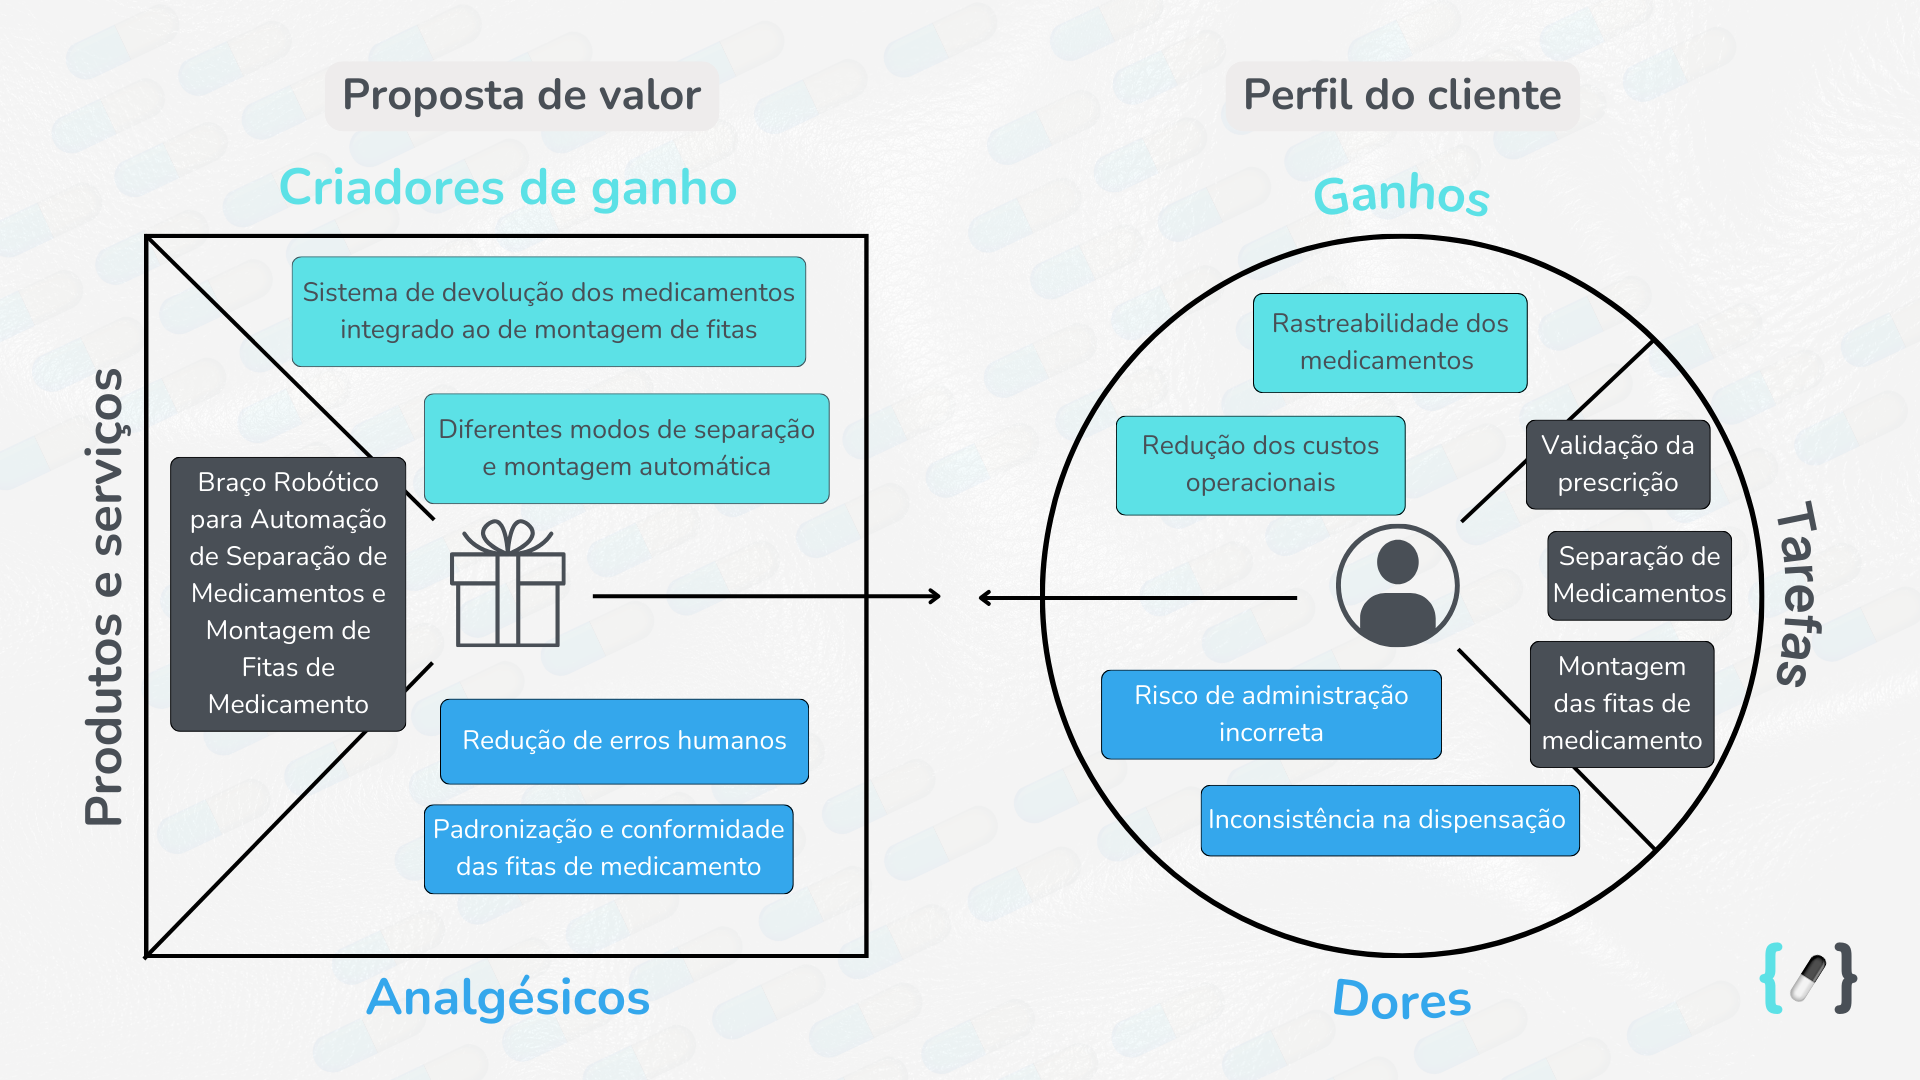
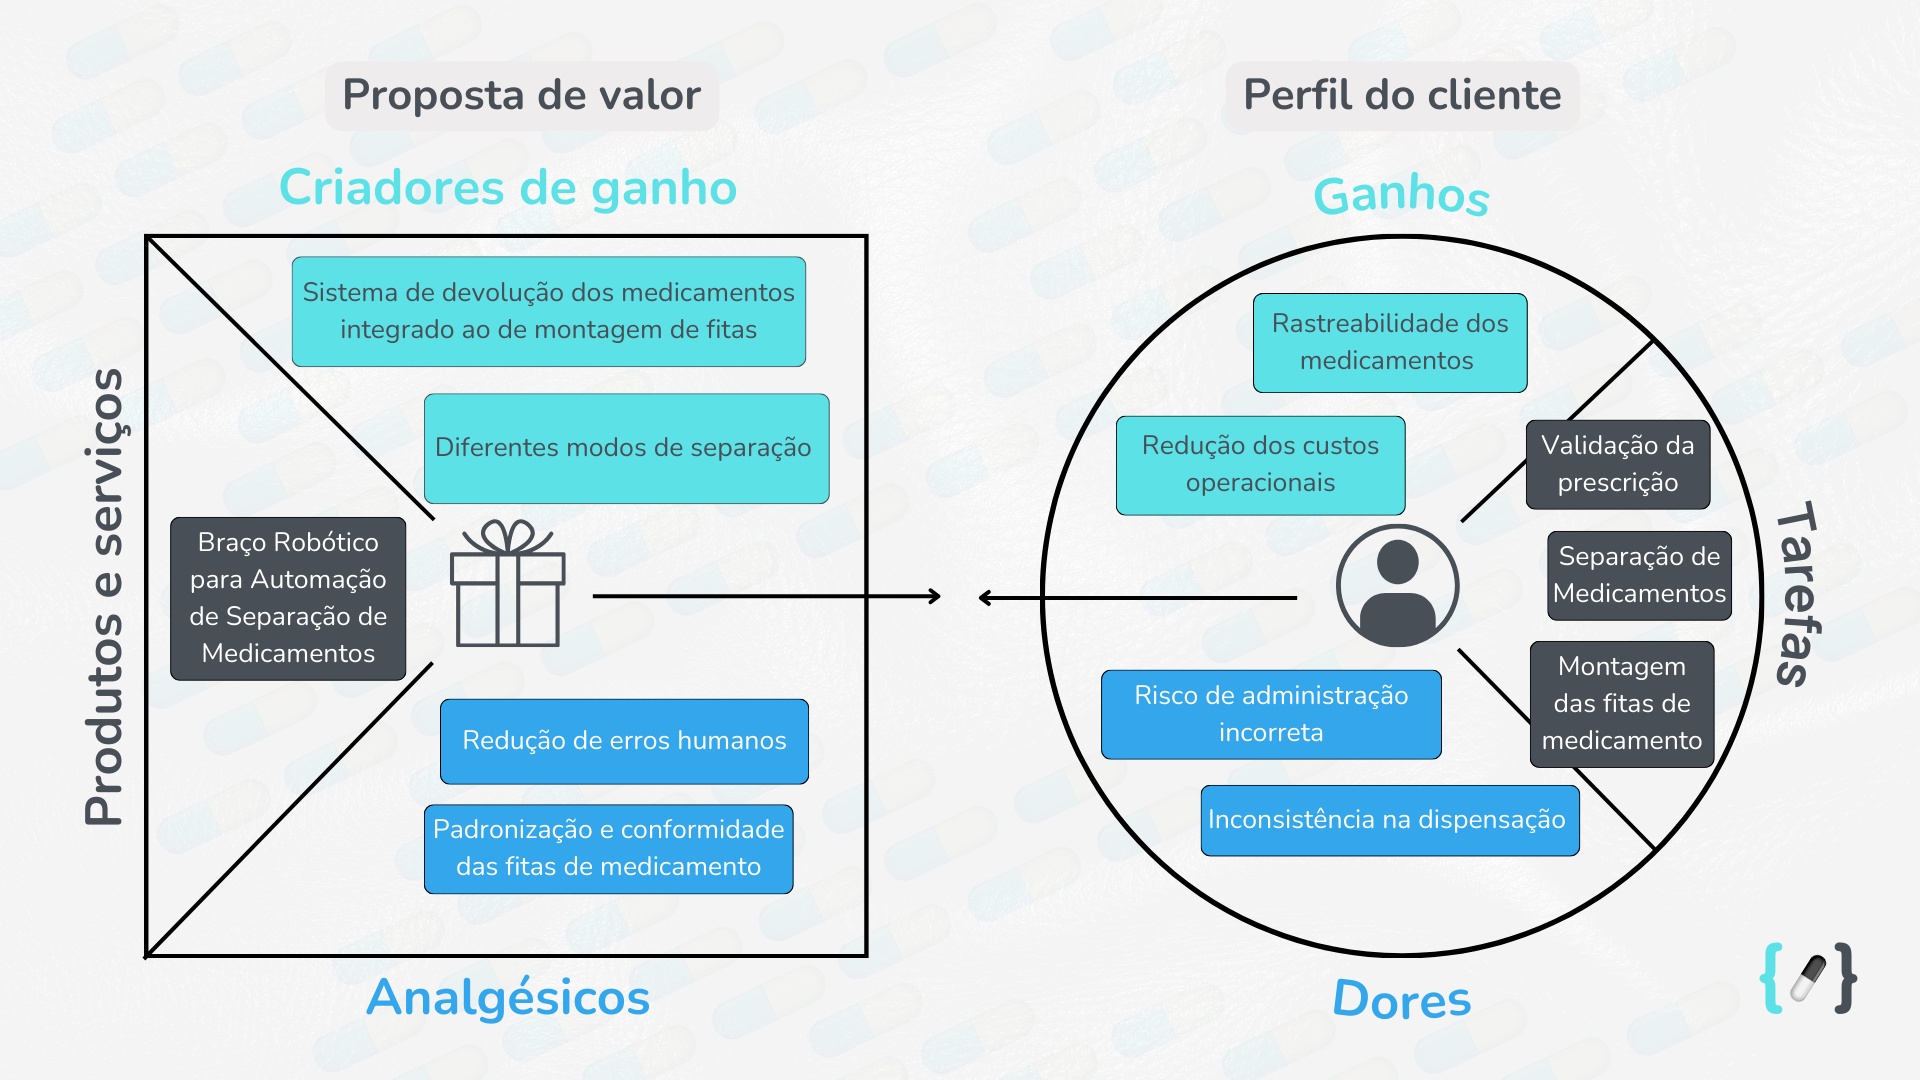
docs: retira montagem como um dos atributos da solução

Changed region(s): [[0.0625, 0.3972, 0.4375, 0.7028]]

diff --git a/docs/docs/canvas_proposta_valor.md b/docs/docs/canvas_proposta_valor.md
@@ -17,7 +17,6 @@ sidebar_position: 3
 :::
 
 &emsp; A principal função do Canvas Proposta de Valor é garantir que a empresa esteja criando produtos e serviços que realmente atendam às necessidades de seus clientes, evitando o desenvolvimento de soluções que não geram valor para o mercado.
-<br/>
 
 ## 🎯 Proposta de Valor
 
@@ -25,17 +24,17 @@ sidebar_position: 3
 
 <div align='center'>
 <sub>Figura 1 - Canvas Proposta de Valor</sub>
-</div><br/>
+</div>
 
-<img src="/img/canvas_proposta_valor.png"/><br/>
+<img src="/img/canvas_proposta_valor.png"/>
 
 <div align ='center'>
 <sup>Fonte: Material produzido pelos autores (2025)</sup>
-</div><br/>
+</div>
 
-&emsp;Este Canvas Proposta de Valor serve como um guia para o **_Prescript_**, garantindo que ele esteja sempre alinhado com as necessidades dos profissionais de saúde, tanto os **farmacêuticos** quanto as **enfermeiras**. Ele destaca de maneira objetiva e direta as funcionalidades essenciais do sistema, como a **automação inteligente da prescrição de medicamentos**, a **rastreabilidade dos medicamentos** e a **redução dos custos operacionais**.
+&emsp;Este Canvas Proposta de Valor serve como um guia para o **_Prescript_**, garantindo que ele esteja sempre alinhado com as necessidades dos profissionais de saúde, tanto os **farmacêuticos** quanto as **enfermeiras**. Ele destaca de maneira objetiva e direta as funcionalidades essenciais do sistema, como a **automação inteligente da separação de medicamentos**, a **rastreabilidade dos medicamentos** e a **redução dos custos operacionais**.
 
-&emsp;Além disso, a solução combate problemas críticos enfrentados no processo manual, como o **risco de administração incorreta** e a **inconsistência na dispensação**, proporcionando padronização e conformidade das fitas de medicamento e uma redução significativa de erros humanos. O sistema também oferece **diferentes modos de separação e montagem automática**, garantindo flexibilidade no fluxo de trabalho. Além disso, a integração de um sistema de devolução de medicamentos permite uma gestão mais eficiente dos insumos hospitalares.
+&emsp;Além disso, a solução combate problemas críticos enfrentados no processo manual, como o **risco de administração incorreta** e a **inconsistência na dispensação**, proporcionando padronização e conformidade das fitas de medicamento e uma redução significativa de erros humanos. O sistema também oferece **diferentes modos de separação**, garantindo flexibilidade no fluxo de trabalho. Além disso, a integração de um sistema de devolução de medicamentos permite uma gestão mais eficiente dos insumos hospitalares.
 
 ## ✅ Conclusão
 &emsp;O Canvas atua como uma ferramenta de comunicação eficaz, permitindo apresentar a proposta de valor do sistema para as partes interessadas e orientar decisões importantes sobre o desenvolvimento e a alocação de recursos. Em suma, **ele garante que o projeto entregue valor real ao cliente** e atenda às suas necessidades específicas, mantendo o foco no que realmente importa.
